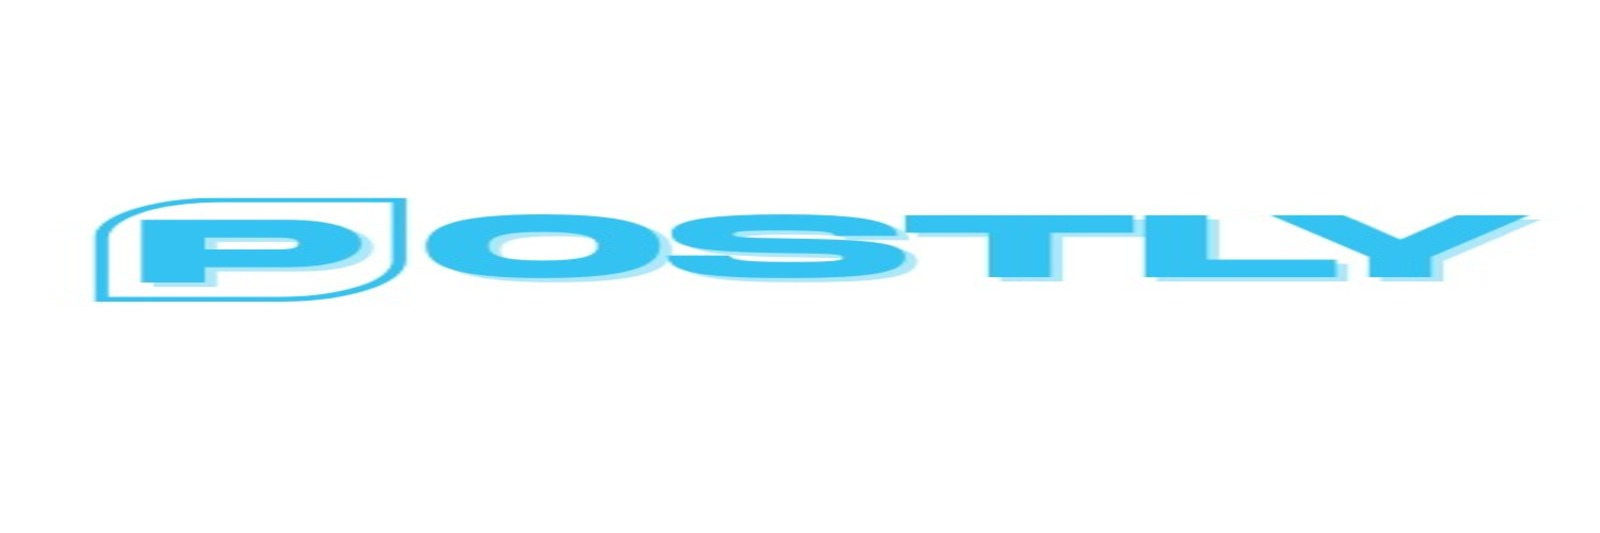
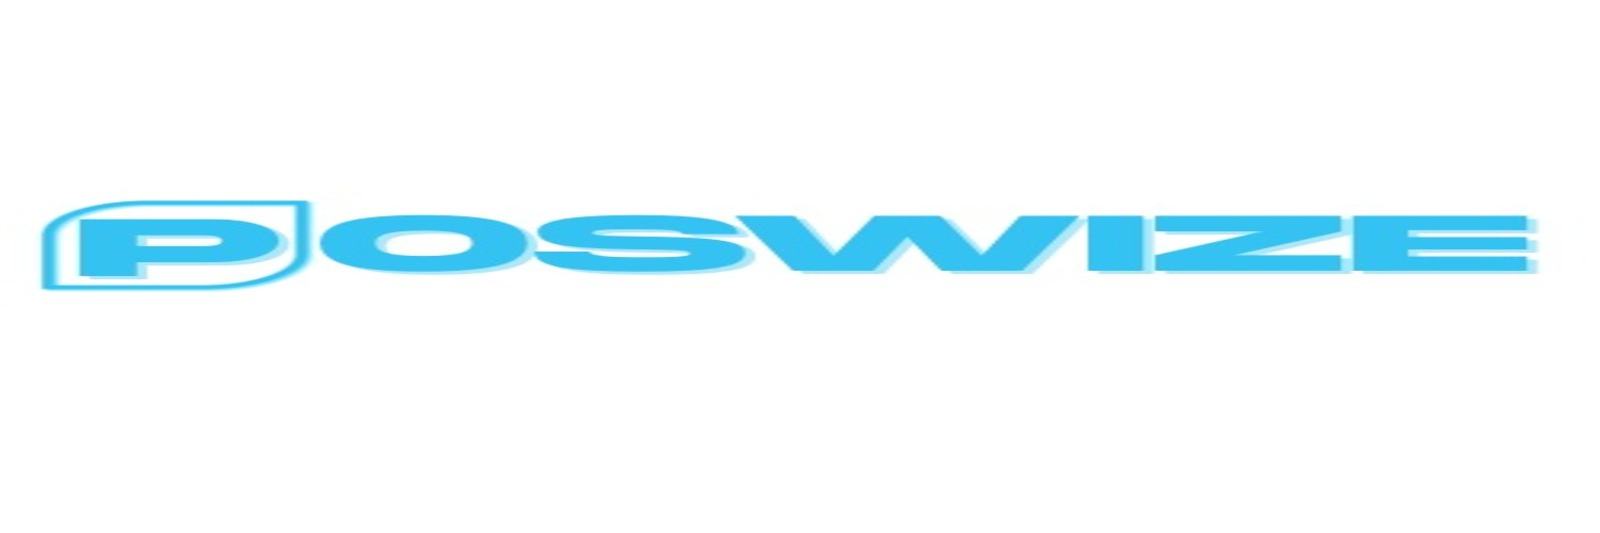
poswize update

Changed region(s): [[0.0, 0.3602, 0.9688, 0.5704]]

diff --git a/src/pages/About/About.jsx b/src/pages/About/About.jsx
@@ -30,7 +30,7 @@ function About() {
               <AccordionIcon />
             </AccordionButton>
             <AccordionPanel pb={4}>
-              {t("Postly is an Emirati app owned by an Emirati company and based in the United Arab Emirates. It aims to facilitate the management and publication of content across various social media platforms effectively and quickly. We offer a complete solution for content creators, businesses, marketers, and even individuals to publish photos and videos simultaneously with ease.")}
+              {t("Poswize is an Emirati app owned by an Emirati company and based in the United Arab Emirates. It aims to facilitate the management and publication of content across various social media platforms effectively and quickly. We offer a complete solution for content creators, businesses, marketers, and even individuals to publish photos and videos simultaneously with ease.")}
             </AccordionPanel>
           </AccordionItem>
           <AccordionItem>
@@ -42,7 +42,7 @@ function About() {
             </AccordionButton>
             <AccordionPanel pb={4}>
               {t(
-               "Postly provides smart tools for editing content before publishing, and the ability to upload and publish multiple files at once. Additionally, we offer AI technology that helps you create unique content based on your descriptions."
+                "Poswize provides smart tools for editing content before publishing, and the ability to upload and publish multiple files at once. Additionally, we offer AI technology that helps you create unique content based on your descriptions."
               )}
             </AccordionPanel>
           </AccordionItem>
@@ -55,7 +55,7 @@ function About() {
             </AccordionButton>
             <AccordionPanel pb={4}>
               {t(
-                "We aim to empower individuals and businesses to scale their digital presence with less effort and greater results. Postly is your ideal partner for managing digital content in a smart and fast way."
+                "We aim to empower individuals and businesses to scale their digital presence with less effort and greater results. Poswize is your ideal partner for managing digital content in a smart and fast way."
               )}
             </AccordionPanel>
           </AccordionItem>
@@ -120,7 +120,7 @@ function About() {
             </AccordionButton>
             <AccordionPanel pb={4}>
               {t(
-                "From social media management platforms like Postly to custom-built software and mobile apps, we offer a wide range of services designed to fuel digital transformation."
+                "From social media management platforms like Poswize to custom-built software and mobile apps, we offer a wide range of services designed to fuel digital transformation."
               )}
             </AccordionPanel>
           </AccordionItem>

diff --git a/src/pages/Home/Home.jsx b/src/pages/Home/Home.jsx
@@ -11,10 +11,10 @@ import { useTypewriter } from "react-simple-typewriter";
 
 function Home() {
   const [text] = useTypewriter({
-    words : [t("PostLy")],
-    loop : {} ,
-    typeSpeed : 120 ,
-    deleteSpeed : 80
+    words: [t("Poswize")],
+    loop: {},
+    typeSpeed: 120,
+    deleteSpeed: 80
   })
   return (
     <div className="home">
@@ -52,7 +52,7 @@ function Home() {
       </div>
       <div className="container sectionHome">
         <div className="title">
-          <h1>{t("What is Postly ?")}</h1>
+          <h1>{t("What is Poswize ?")}</h1>
           <img src={line} alt="" />
         </div>
         <div className="flex">
@@ -62,7 +62,7 @@ function Home() {
           </div>
           <div className="content">
             <p>
-              {t("Postly is a cutting-edge application that aims to make it easier and faster to manage and publish content across multiple social media platforms. We provide a complete solution for content creators, businesses, marketers, and even individual users to publish photos and videos on platforms like Instagram, Facebook, X, TikTok, YouTube, etc., simultaneously and with ease.")}
+              {t("Poswize is a cutting-edge application that aims to make it easier and faster to manage and publish content across multiple social media platforms. We provide a complete solution for content creators, businesses, marketers, and even individual users to publish photos and videos on platforms like Instagram, Facebook, X, TikTok, YouTube, etc., simultaneously and with ease.")}
             </p>
           </div>
         </div>

diff --git a/src/pages/PrivcyPolicy/PrivcyPolicy.jsx b/src/pages/PrivcyPolicy/PrivcyPolicy.jsx
@@ -21,7 +21,7 @@ function PrivcyPolicy() {
               </div>
               <p className="info">
                 {t(
-                  "Users are allowed to create and share posts across their integrated social media platforms using Postly."
+                  "Users are allowed to create and share posts across their integrated social media platforms using Poswize."
                 )}
               </p>
             </div>
@@ -55,7 +55,7 @@ function PrivcyPolicy() {
               </div>
               <p className="info">
                 {t(
-                  "Users can access and utilize analytics tools provided by Postly to track the performance of their posts and engagement metrics."
+                  "Users can access and utilize analytics tools provided by Poswize to track the performance of their posts and engagement metrics."
                 )}
               </p>
             </div>
@@ -126,7 +126,7 @@ function PrivcyPolicy() {
               </div>
               <p className="info">
                 {t(
-                  "Users are prohibited from attempting to bypass any security measures in place on the Postly platform."
+                  "Users are prohibited from attempting to bypass any security measures in place on the Poswize platform."
                 )}
               </p>
             </div>

diff --git a/index.html b/index.html
@@ -10,7 +10,7 @@
       crossorigin="anonymous"
       referrerpolicy="no-referrer"
     />
-    <title>Postly</title>
+    <title>Poswize</title>
   </head>
   <body>
     <div id="root"></div>
